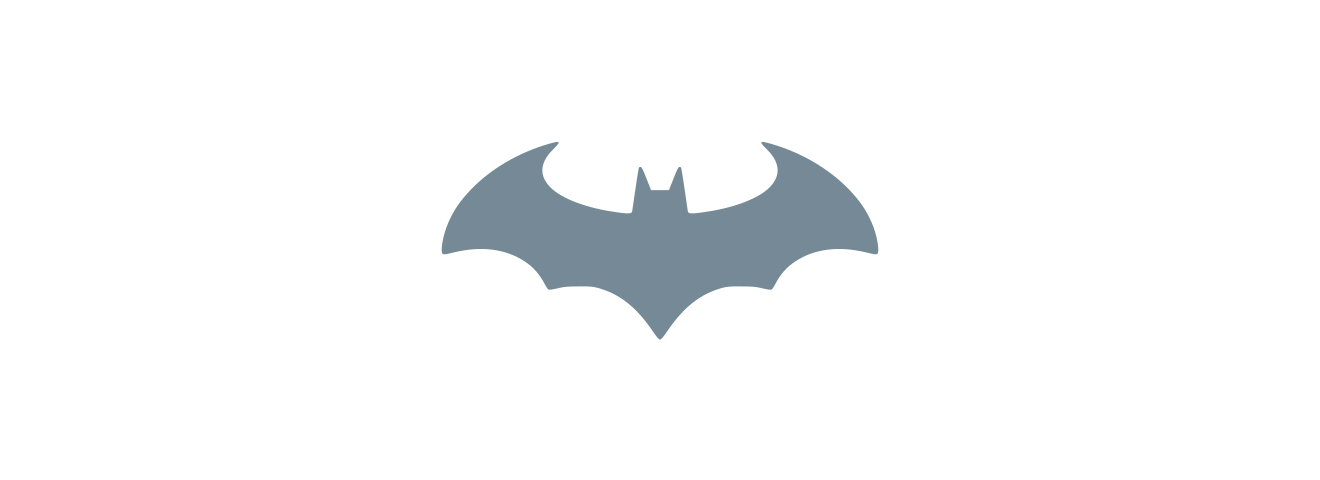
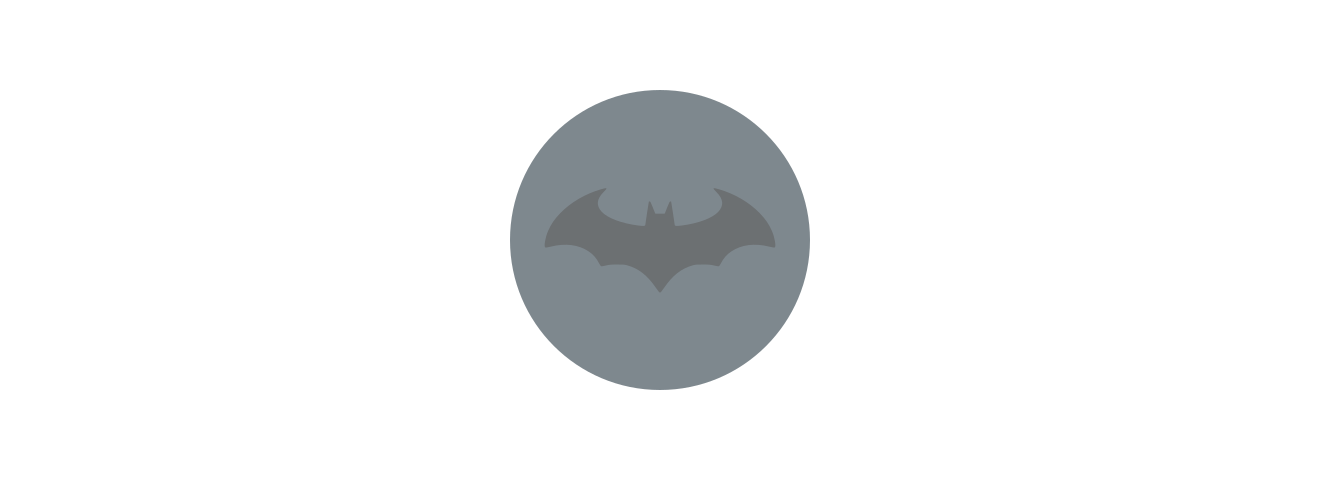
Give each unlock variation a distinct subdued emblem

Changed region(s): [[0.3106, 0.1875, 0.6833, 0.8125]]

diff --git a/src/artwork.py b/src/artwork.py
@@ -52,16 +52,20 @@ def vector_scene(style, width, height):
     return body
 
 
-def splash():
-    return svg(1320, 480, f'<path d="{path(.44, 660, 240)}" fill="{P["muted"]}"/>')
+def splash(style):
+    if style == 'gotham':
+        body = signal(660, 240, 150)
+    else:
+        body = f'<path d="{path(.44, 660, 240)}" fill="{P["line"]}"/>'
+    return svg(1320, 480, f'<g opacity="0.6">{body}</g>')
 
 
 def gotham(wallpaper):
-    return svg(5120, 3200, vector_scene('gotham', 1920, 1200), wallpaper=True) if wallpaper else splash()
+    return svg(5120, 3200, vector_scene('gotham', 1920, 1200), wallpaper=True) if wallpaper else splash('gotham')
 
 
 def cape(wallpaper):
-    return svg(5120, 3200, vector_scene('cape', 1920, 1200), wallpaper=True) if wallpaper else splash()
+    return svg(5120, 3200, vector_scene('cape', 1920, 1200), wallpaper=True) if wallpaper else splash('cape')
 
 
 def main():

diff --git a/tests/test_plymouth.py b/tests/test_plymouth.py
@@ -17,6 +17,15 @@ from plymouth import build, preview, ORIGINAL_BULLET_LAYOUT, CENTERED_BULLET_LAY
 @unittest.skipUnless(shutil.which('magick') and Path('/usr/share/omarchy/default/plymouth').is_dir(),
                      'requires ImageMagick and installed Omarchy assets')
 class PlymouthTest(unittest.TestCase):
+    def test_variations_install_distinct_emblems(self):
+        with tempfile.TemporaryDirectory() as scratch:
+            logos = []
+            for variation in ('gotham', 'cape'):
+                stage = Path(scratch)/variation
+                build(stage, variation)
+                logos.append((stage/'logo.png').read_bytes())
+            self.assertNotEqual(*logos)
+
     def test_failed_preview_render_preserves_previous_image(self):
         with tempfile.TemporaryDirectory() as scratch:
             target = Path(scratch)/'preview.png'

diff --git a/src/plymouth.py b/src/plymouth.py
@@ -36,8 +36,9 @@ def build(destination, variation):
     logo = ROOT / ('unlock.png' if variation == 'gotham' else 'unlock-cape.png')
     shutil.copyfile(logo, destination / 'logo.png')
     for name in ('bullet.png', 'entry.png', 'progress_bar.png'):
+        colour = palette['line'] if name == 'entry.png' else palette['foreground']
         subprocess.run(['magick', str(destination/name), '-channel', 'RGB', '+level-colors',
-                        f'{palette["foreground"]},{palette["foreground"]}', str(destination/name)], check=True)
+                        f'{colour},{colour}', str(destination/name)], check=True)
     # Keep the vendor script's positioning and password callbacks intact.
     # A transparent lock has the original dimensions and contributes no pixels.
     subprocess.run(['magick', '-size', '84x96', 'xc:none', '-strip',

diff --git a/README.md b/README.md
@@ -23,9 +23,9 @@ gradients or textures. Editable SVGs are in [assets/artwork](assets/artwork/).
 Desktop PNGs are exported at 5120x3200; the SVGs scale to any resolution.
 Splash assets have transparent 1320x480 canvases. The compositions are defined
 in `src/artwork.py` and `src/scenes.py`; regeneration replaces the SVG exports.
-Boot uses a steel-blue bat emblem; login uses the wallpaper emblem colour
-at 60% opacity and a blue-grey password border. Both centre password dots
-and hide the lock icon.
+Boot and disk unlock use a dim circular Bat-Signal emblem for Gotham, and a dim
+standalone emblem for Cape. Login uses the standalone emblem at 60% opacity.
+Both use a blue-grey password border, centre password dots and hide the lock icon.
 
 The composition and production research is in
 [the wallpaper brief](docs/WALLPAPER-BRIEF.md).
@@ -88,8 +88,8 @@ omarchy theme bg set ~/.local/state/omarchy/current/theme/backgrounds/2-cape.png
 Use `omarchy theme bg next` to cycle between them. Applying the current theme
 again can advance the wallpaper; `omarchy theme refresh` preserves your selection.
 
-The boot splash is selected separately. Both variations share the simple bat
-emblem. These commands show a password dialog and rebuild the initramfs.
+The boot splash is selected separately: Gotham uses the circular Bat-Signal emblem;
+Cape uses the standalone emblem. These commands show a password dialog and rebuild the initramfs.
 For the Gotham splash:
 
 ```sh

diff --git a/docs/DESIGN.md b/docs/DESIGN.md
@@ -212,7 +212,8 @@ Phone and tablet variants use the same vector scene functions. Their upper
 regions stay open for lock-screen clocks. The renderer regenerates all eight
 mobile exports, their contact sheet and the download ZIP.
 
-Both boot variations use one simple steel-blue bat emblem on #0A1014.
+Gotham boot uses a circular Bat-Signal emblem; Cape uses a standalone bat emblem.
+Both compositions use 60% opacity on #0A1014 and a `line` password border.
 The hidden lock icon keeps its original transparent canvas. Password dots
 are repositioned on every keystroke to stay centred as the password grows
 or shrinks. All other vendor dialogue and authentication callbacks remain
@@ -249,8 +250,8 @@ this repository, and the carousel compares like with like.
 
 ### Plymouth
 
-`unlock.png` is Gotham; `unlock-cape.png` is Cape. Both use the same simple
-steel-blue bat emblem on a transparent ground. Plymouth paints the palette
+`unlock.png` is Gotham's circular Bat-Signal emblem; `unlock-cape.png` is Cape's
+standalone bat emblem. Both use 60% opacity on a transparent ground. Plymouth paints the palette
 background behind them. The README documents each pair.
 
 `src/plymouth.py` builds a separate Plymouth theme from Omarchy's packaged

diff --git a/docs/INSTALL.md b/docs/INSTALL.md
@@ -178,6 +178,7 @@ Run `python3 src/login.py <preview-directory>` and
 `sddm-greeter-qt6 --test-mode --theme <preview-directory>` for a preview.
 Autologin may bypass the greeter; this theme does not change autologin.
 
-Boot and disk unlock use `bash src/install-splash.sh gotham`. Both wallpaper
-variations now share the same simple splash. Masked dots stay centred while
+Boot and disk unlock use `bash src/install-splash.sh gotham` for the circular
+Bat-Signal emblem, or `bash src/install-splash.sh cape` for the standalone emblem.
+Both use dim artwork and a blue-grey password border. Masked dots stay centred while
 password length changes, and the lock icon remains hidden.
